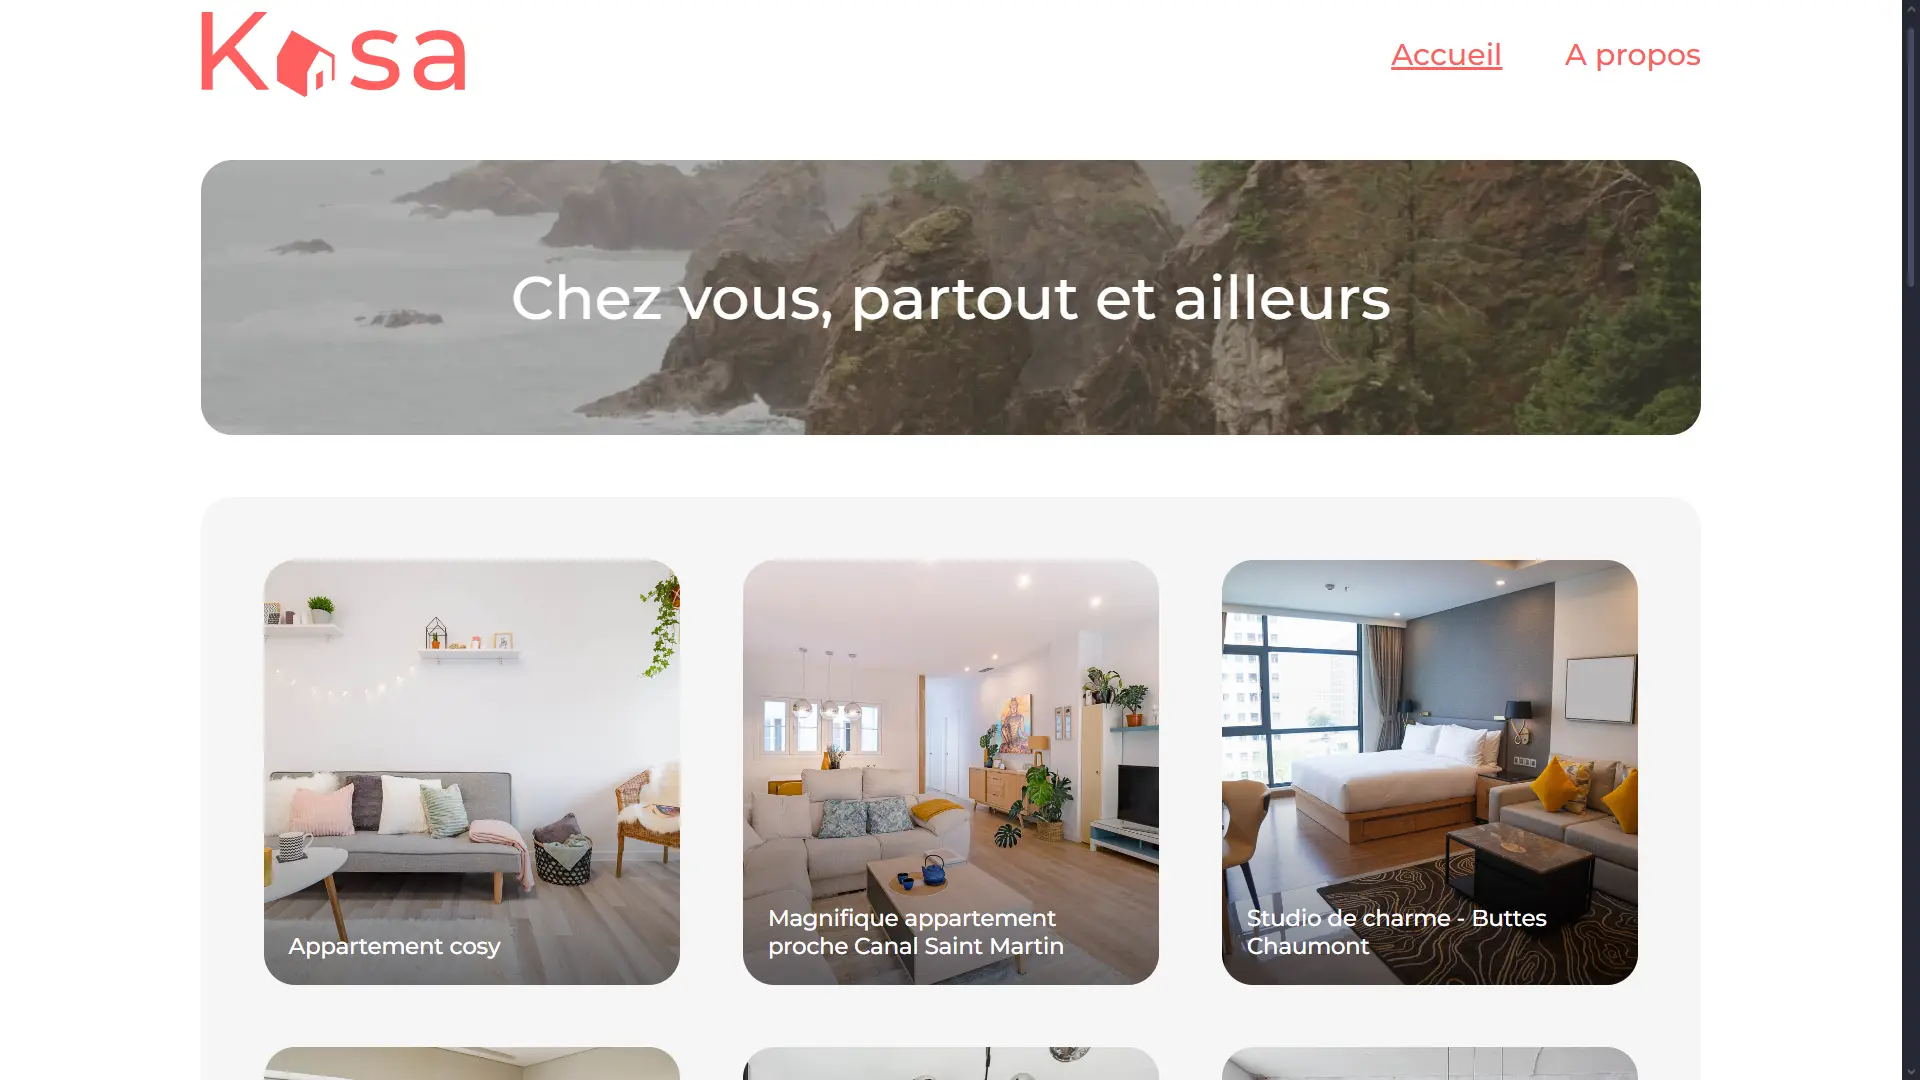
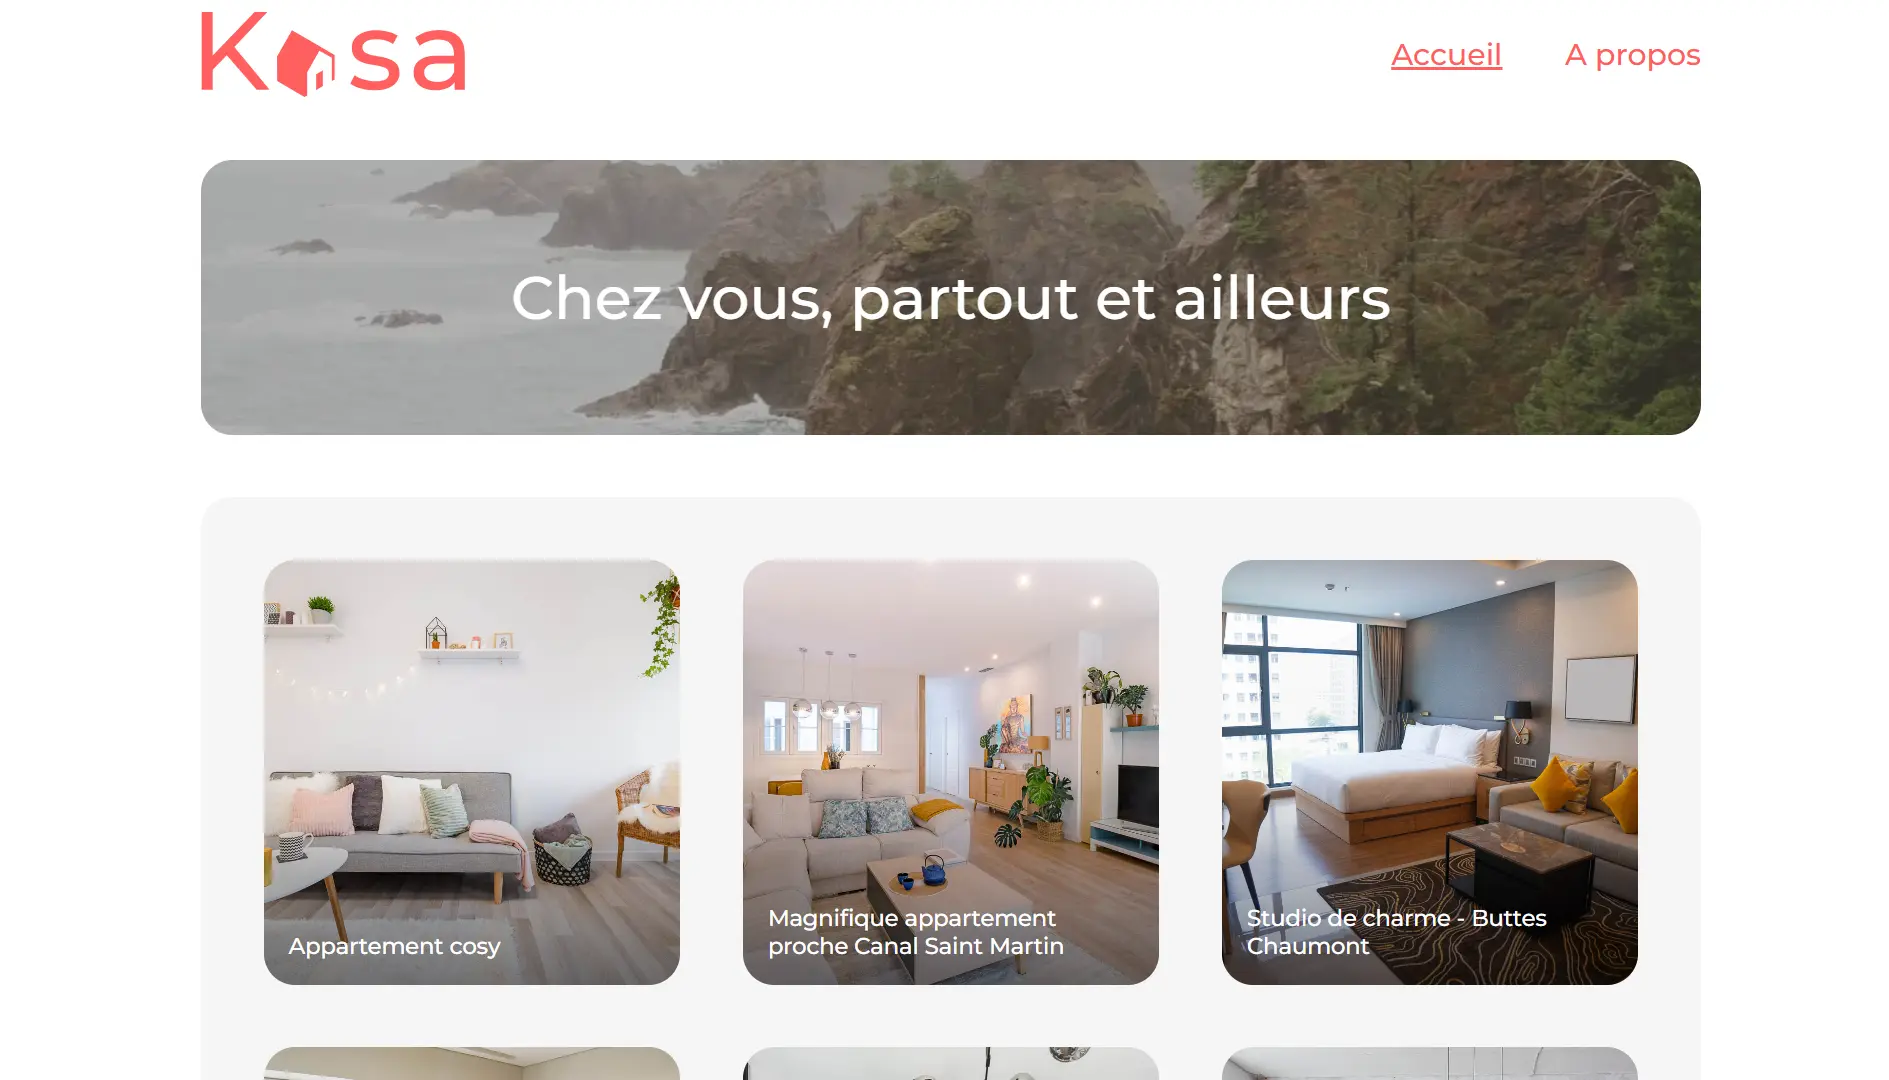
ajout du folio

diff --git a/tak-expo/app/_landing/WorkClient.ts b/tak-expo/app/_landing/WorkClient.ts
@@ -43,15 +43,15 @@ export const Project = [
       verceLink: "https://morning-news-frontend-phi.vercel.app/",
       image: "./MorningNews.webp",
     },
-    // {
-    //   id: 5,
-    //   title: "Crypto Dashboard 5",
-    //   description:
-    //     "Project made to others, an application made to log and see its cryptocurrencies",
-    //   technologies: ["Next Js", "Express", "Node Js", "React Js", "Redux"],
-    //   demoLink: "#",
-    //   repoLink: "#",
-    //   verceLink: "#",
-    //   image: "./CryptoDashboard.webp",
-    // },
+    {
+      id: 5,
+      title: "Blach hole folio",
+      description:
+        "An other version of portfolio i did with 3D effect, look it! it's amazing !",
+      technologies: ["Next Js", "Three Js", "Node Js", "React Js", "Tailwind"],
+      demoLink: "#",
+      repoLink: "https://github.com/Retak18/Tak-Folio/tree/main/tak-folio",
+      verceLink: "https://tak-folio.vercel.app/",
+      image: "./Black_hole-folio.webp",
+    },
 ];

diff --git a/tak-expo/app/layout.tsx b/tak-expo/app/layout.tsx
@@ -17,8 +17,8 @@ const geistMono = Geist_Mono({
 });
 
 export const metadata: Metadata = {
-  title: "Create Next App",
-  description: "Generated by create next app",
+  title: "Tak-Expo",
+  description: "This is the portfolio of Tarek",
 };
 
 export default function RootLayout({
